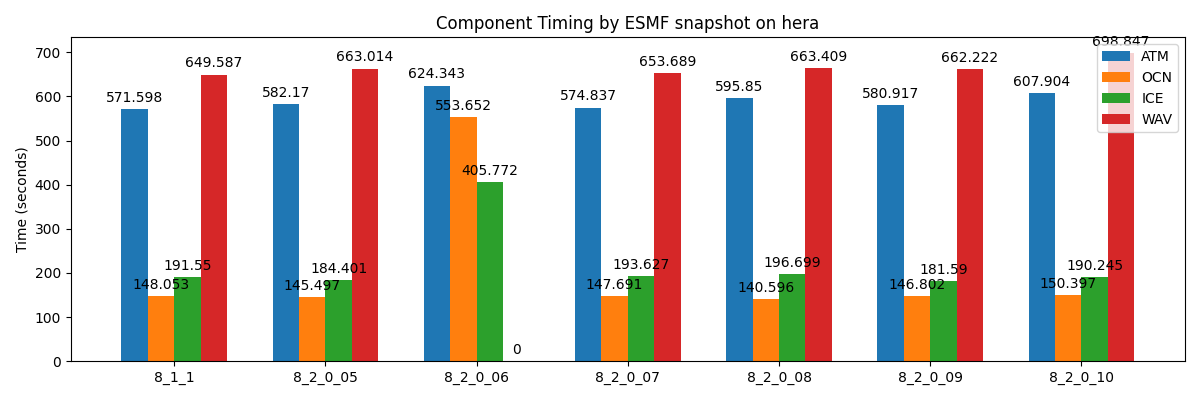
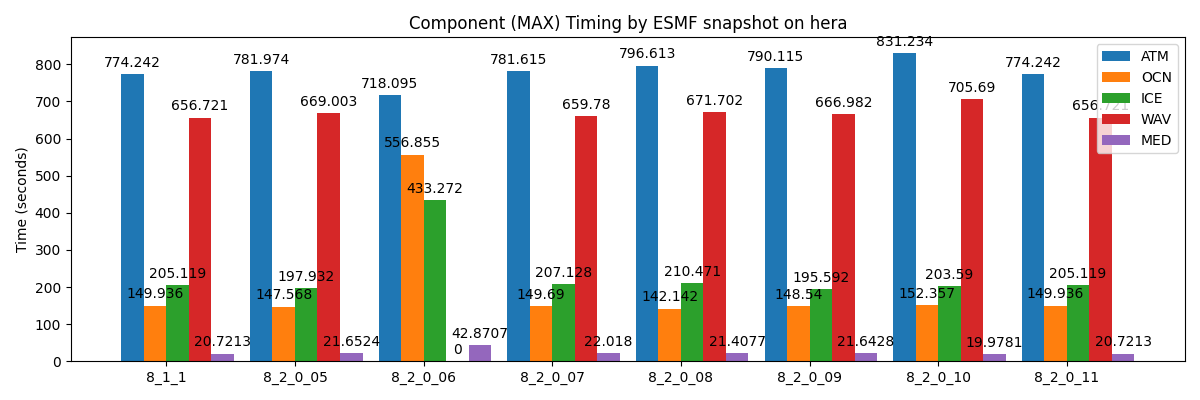
updated plotting for max values and added mediator

diff --git a/python_scripts/plotdata.py b/python_scripts/plotdata.py
@@ -41,10 +41,18 @@ class PlotData:
         output = self.runcmd(cmd)
         if(output != None):
           words = output[0].split()
+          print("{} {} and {}".format(ESMFversion,githash,words))
 #         print("{} {}".format(ESMFversion,words[4]))
-          comptiming[comp] = words[4]
+          comptiming[comp] = words[7]
         else:
           comptiming[comp] = 0.0
+# sum up the mediator timing as well
+      cmd = "git show {}:{}/ESMF_Profile.summary | grep \"\[MED\]\" | awk \-F \"\[\[:space:\]\]\[\[:space:\]\]+\" \"{{print \$8}}\" | paste -sd+ - | bc".format(githash,self.machinename)
+      output = self.runcmd(cmd)
+      if(output == []):
+        comptiming['MED'] = 0.0
+      else:
+        comptiming['MED'] = output[0]
       if(comptiming != {}):
         cmd = "git show {}:{}/out | grep \"Total runtime\"".format(githash,self.machinename)
         output = self.runcmd(cmd)
@@ -66,12 +74,14 @@ class PlotData:
     ocn = np.zeros(len(timing))
     ice = np.zeros(len(timing))
     wav = np.zeros(len(timing))
+    med = np.zeros(len(timing))
     i = 0
     for key in sorted (timing.keys()):
       atm[i] = timing[key]['ATM']
       ocn[i] = timing[key]['OCN']
       ice[i] = timing[key]['ICE']
       wav[i] = timing[key]['WAV']
+      med[i] = timing[key]['MED']
       i = i +1
 
     fig, ax = plt.subplots(figsize=(12,4))
@@ -79,9 +89,10 @@ class PlotData:
     rects2 = ax.bar(x - width*0.5, ocn, width, label='OCN')
     rects3 = ax.bar(x + width*0.5, ice, width, label='ICE')
     rects4 = ax.bar(x + width*1.5, wav, width, label='WAV')
+    rects5 = ax.bar(x + width*2.5, med, width, label='MED')
 
     ax.set_ylabel('Time (seconds)')
-    ax.set_title('Component Timing by ESMF snapshot on {}'.format(self.machinename))
+    ax.set_title('Component (MAX) Timing by ESMF snapshot on {}'.format(self.machinename))
     ax.set_xticks(x)
     ax.set_xticklabels(labels)
     ax.legend()
@@ -90,6 +101,7 @@ class PlotData:
     ax.bar_label(rects2, padding=3)
     ax.bar_label(rects3, padding=3)
     ax.bar_label(rects4, padding=3)
+    ax.bar_label(rects5, padding=3)
 
     fig.tight_layout()
 
